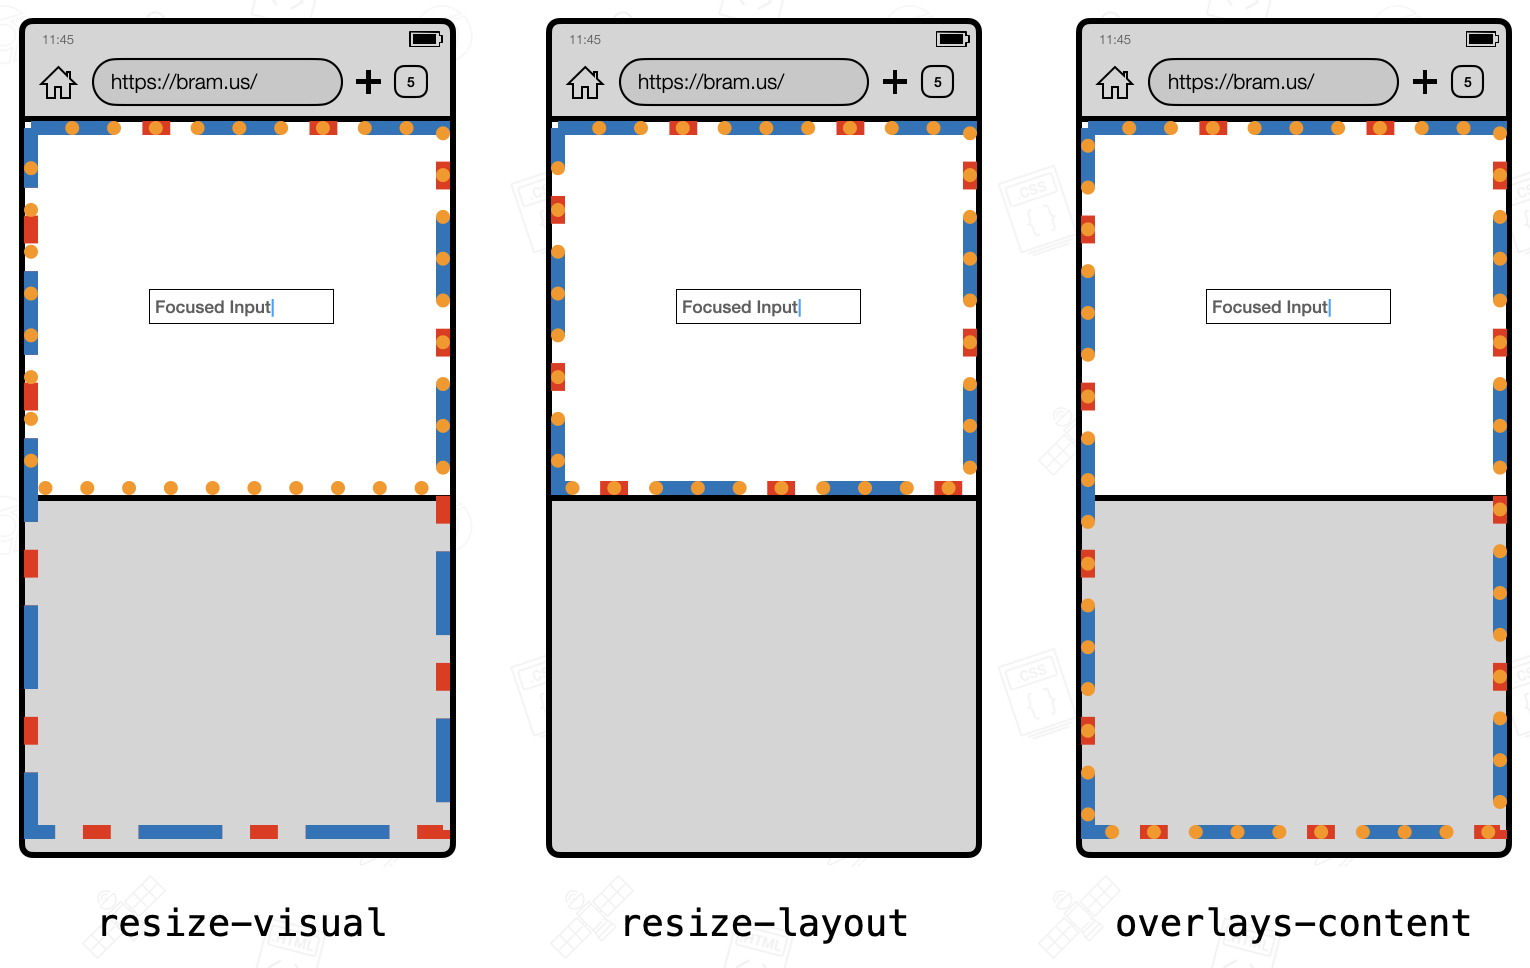
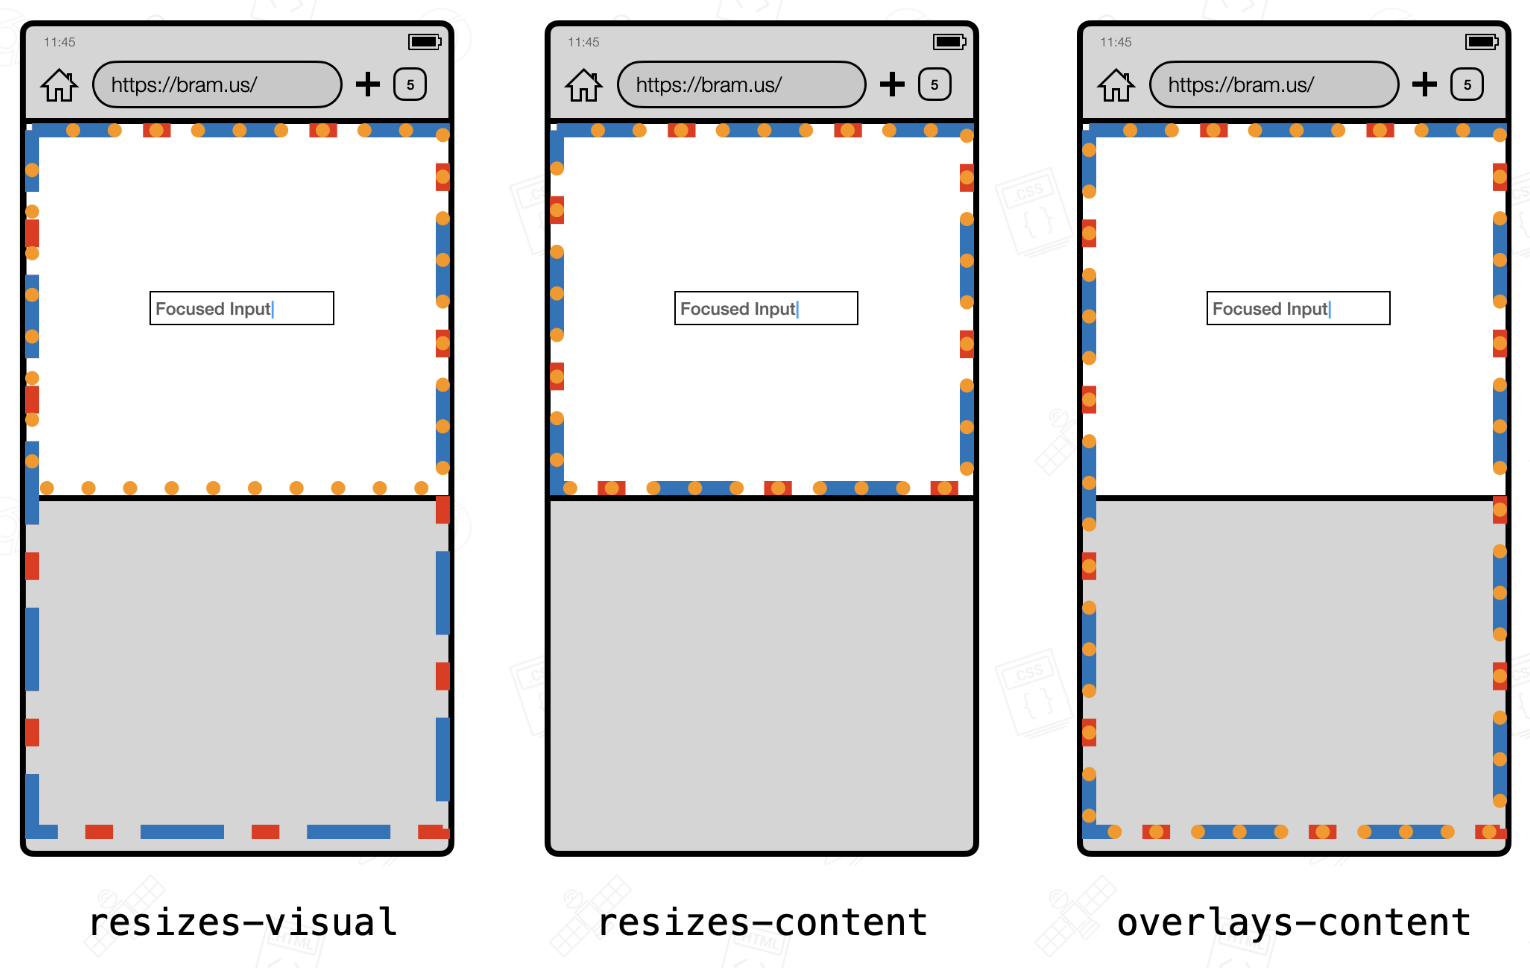
Update naming of interactive-widgets meta property
This commit updates the names of some properties in the `interactive-widgets` property of the viewport meta tag to reflect updated spec text[1]:

"interactive-widgets" --> "interactive-widget"
"resize-layout" --> "resizes-content"
"resize-visual" --> "resizes-visual"

[1] https://github.com/w3c/csswg-drafts/pull/7826

diff --git a/demos/src/index.html b/demos/src/index.html
@@ -39,15 +39,15 @@
     <main>
         <h1>Viewport Resize Behavior Demos</h1>
 
-        <p>Set of demo pages that use the <code>interactive-widgets</code> viewport meta tag extension with its different values.</p>
+        <p>Set of demo pages that use the <code>interactive-widget</code> viewport meta tag extension with its different values.</p>
 
         <h2>Demos</h2>
 
         <ol>
-            <li><a href="interactive-widgets/no-value/">no value set</a></li>
-            <li><a href="interactive-widgets/resize-visual/">interactive-widgets=resize-visual</a></li>
-            <li><a href="interactive-widgets/resize-layout/">interactive-widgets=resize-layout</a></li>
-            <li><a href="interactive-widgets/overlays-content/">interactive-widgets=overlays-content</a></li>
+            <li><a href="interactive-widget/no-value/">no value set</a></li>
+            <li><a href="interactive-widget/resizes-visual/">interactive-widget=resizes-visual</a></li>
+            <li><a href="interactive-widget/resizes-content/">interactive-widget=resizes-content</a></li>
+            <li><a href="interactive-widget/overlays-content/">interactive-widget=overlays-content</a></li>
         </ol>
 
 		<h2>Legend</h2>

diff --git a/demos/src/interactive-widget/overlays-content/index.html b/demos/src/interactive-widget/overlays-content/index.html
@@ -2,8 +2,8 @@
 <html lang="en">
 <head>
     <meta charset="UTF-8" />
-    <title>Viewport Resize Behavior Demos – interactive-widgets - overlays-content</title>
-    <meta name="viewport" content="width=device-width, initial-scale=1,interactive-widgets=overlays-content" />
+    <title>Viewport Resize Behavior Demos – interactive-widget - overlays-content</title>
+    <meta name="viewport" content="width=device-width, initial-scale=1,interactive-widget=overlays-content" />
     <link rel="stylesheet" href="../../base.css" />
 
     <script type="module">

diff --git a/demos/src/interactive-widget/resizes-visual/index.html b/demos/src/interactive-widget/resizes-visual/index.html
@@ -2,8 +2,8 @@
 <html lang="en">
 <head>
     <meta charset="UTF-8" />
-    <title>Viewport Resize Behavior Demos – interactive-widgets - resize-layout</title>
-    <meta name="viewport" content="width=device-width, initial-scale=1,interactive-widgets=resize-layout" />
+    <title>Viewport Resize Behavior Demos – interactive-widget - resizes-visual</title>
+    <meta name="viewport" content="width=device-width, initial-scale=1,interactive-widget=resizes-visual" />
     <link rel="stylesheet" href="../../base.css" />
 
     <script type="module">

diff --git a/demos/src/interactive-widget/resizes-content/index.html b/demos/src/interactive-widget/resizes-content/index.html
@@ -2,8 +2,8 @@
 <html lang="en">
 <head>
     <meta charset="UTF-8" />
-    <title>Viewport Resize Behavior Demos – interactive-widgets - No Value</title>
-    <meta name="viewport" content="width=device-width, initial-scale=1" />
+    <title>Viewport Resize Behavior Demos – interactive-widget - resizes-content</title>
+    <meta name="viewport" content="width=device-width, initial-scale=1,interactive-widget=resizes-content" />
     <link rel="stylesheet" href="../../base.css" />
 
     <script type="module">

diff --git a/demos/src/interactive-widget/no-value/index.html b/demos/src/interactive-widget/no-value/index.html
@@ -2,8 +2,8 @@
 <html lang="en">
 <head>
     <meta charset="UTF-8" />
-    <title>Viewport Resize Behavior Demos – interactive-widgets - resize-visual</title>
-    <meta name="viewport" content="width=device-width, initial-scale=1,interactive-widgets=resize-visual" />
+    <title>Viewport Resize Behavior Demos – interactive-widget - No Value</title>
+    <meta name="viewport" content="width=device-width, initial-scale=1" />
     <link rel="stylesheet" href="../../base.css" />
 
     <script type="module">

diff --git a/explainer.md b/explainer.md
@@ -19,7 +19,7 @@ Authors: [Bramus](https://github.com/bramus/), [David Bokan](https://github.com/
 - [Alternatives Considered](#alternatives-considered)
   - [Do nothing](#do-nothing)
   - [The VirtualKeyboard API with `overlaysMode`](#the-virtualkeyboard-api-with-overlaysmode)
-  - [Force all browsers to use a `resize-visual` behavior with no way of switching](#force-all-browsers-to-use-a-resize-visual-behavior-with-no-way-of-switching)
+  - [Force all browsers to use a `resizes-visual` behavior with no way of switching](#force-all-browsers-to-use-a-resizes-visual-behavior-with-no-way-of-switching)
   - [A new meta tag](#a-new-meta-tag)
 - [Prior Art and Interesting Links](#prior-art-and-interesting-links)
   - [Prior Art](#prior-art)
@@ -28,7 +28,7 @@ Authors: [Bramus](https://github.com/bramus/), [David Bokan](https://github.com/
   - [Privacy](#privacy)
   - [Security](#security)
 - [Follow-up work](#follow-up-work)
-  - [Allow authors to easily position elements above the Virtual Keyboard when having opted in to the `resize-visual` behavior](#allow-authors-to-easily-position-elements-above-the-virtual-keyboard-when-having-opted-in-to-the-resize-visual-behavior)
+  - [Allow authors to easily position elements above the Virtual Keyboard when having opted in to the `resizes-visual` behavior](#allow-authors-to-easily-position-elements-above-the-virtual-keyboard-when-having-opted-in-to-the-resizes-visual-behavior)
 
 ## Status of this document
 
@@ -57,7 +57,7 @@ Depending on which behavior a User Agent + Platform combination a visitor uses, 
 This document proposes an extension the viewport meta tag so that authors get to opt in to any of those behaviors in a declarative manner.
 
 ```html
-<meta name="viewport" content="width=device-width, initial-scale=1.0, interactive-widgets=overlays-content">
+<meta name="viewport" content="width=device-width, initial-scale=1.0, interactive-widget=overlays-content">
 ```
 
 This way, authors get to control which behavior a User Agent uses.
@@ -244,16 +244,16 @@ For some layouts, authors do not want the layout to resize when the Virtual Keyb
 
 To switch Virtual Keyboard behaviors, authors can use an extra key-value pair the viewport meta tag. That way, they get to control the resize behavior of the various Viewports in case the Virtual Keyboard gets shown.
 
-The key is `interactive-widgets`, and it accepts one of these three values:
+The key is `interactive-widget`, and it accepts one of these three values:
 
-1. `resize-visual` = Resize only the Visual Viewport but not the Layout Viewport
-2. `resize-layout` = Resize both the Visual Viewport and Layout Viewport
+1. `resizes-visual` = Resize only the Visual Viewport but not the Layout Viewport
+2. `resizes-content` = Resize both the Visual Viewport and Layout Viewport
 3. `overlays-content` = Do not resize any viewport
 
 Example:
 
 ```html
-<meta name="viewport" content="width=device-width, initial-scale=1.0, interactive-widgets=overlays-content">
+<meta name="viewport" content="width=device-width, initial-scale=1.0, interactive-widget=overlays-content">
 ```
 
 Visualized, the settings have this effect on the various viewports:
@@ -274,7 +274,7 @@ _ℹ Note: Through this declarative way of controlling the resize behavior, w
 - ✅ Authors can opt-in to any of the behaviors, not being bound to what the platform + browser combination their visitors are on uses as a default.
 - ✅ When an author opts in to a certain behavior, they know that elements sized to Viewport-Relative Units –amongst others– will work in a similar way on each platform, in case the Virtual Keyboard is shown.
 - ✅ When an author opts in to a certain behavior, they know that the position of certain elements will behave in a similar way on each platform, in case the Virtual Keyboard is shown.
-- ❌ If authors have opted in to resize-visual but want to retain a fixed positioning behavior where they want to an element above the Virtual Keyboard, they need to resort to JS to achieve this
+- ❌ If authors have opted in to resizes-visual but want to retain a fixed positioning behavior where they want to an element above the Virtual Keyboard, they need to resort to JS to achieve this
   - This workaround is already needed today for browsers that do not resize the ICB
 
 ## Alternatives Considered
@@ -297,9 +297,9 @@ If we were to pursue this, we would force authors to:
 - Manually adjust the size of their layouts
 - Implement workarounds when using the Visual Viewport API. 
 
-### Force all browsers to use a `resize-visual` behavior with no way of switching
+### Force all browsers to use a `resizes-visual` behavior with no way of switching
 
-Right now Chrome on Android uses the `resize-layout` behavior. Changing it to resize-visual with no way back could potentially break a lot of sites that did not expect this change.
+Right now Chrome on Android uses the `resizes-content` behavior. Changing it to resizes-visual with no way back could potentially break a lot of sites that did not expect this change.
 
 As outlined in the examples, it sometimes is necessary to have a layout that adapts itself to the visible space, whereas sometimes it is not. By forcing one behavior without offering a switch, authors are limited in what they can do.
 
@@ -308,7 +308,7 @@ As outlined in the examples, it sometimes is necessary to have a layout that ada
 Instead of opting for a standalone meta tag, we chose to extend the existing viewport one, as this all is linked to the (resize) behavior of the viewport.
 
 ```html
-<meta name="interactive-widgets" content="overlays-content">
+<meta name="interactive-widget" content="overlays-content">
 ```
 
 ## Prior Art and Interesting Links
@@ -340,8 +340,8 @@ There is no known security impact of this feature.
 
 ## Follow-up work
 
-### Allow authors to easily position elements above the Virtual Keyboard when having opted in to the `resize-visual` behavior
+### Allow authors to easily position elements above the Virtual Keyboard when having opted in to the `resizes-visual` behavior
 
-Should authors want to keep the  “old” positioning behavior while opting into resize-visual, they can resort to the Visual Viewport API which offers them JS access to the Visual Viewport’s dimensions and position. Combined with the dimensions of the non-resized Layout Viewport and a few resize events, elements can be guaranteed to appear above the OSK, just like they did before.
+Should authors want to keep the  “old” positioning behavior while opting into resizes-visual, they can resort to the Visual Viewport API which offers them JS access to the Visual Viewport’s dimensions and position. Combined with the dimensions of the non-resized Layout Viewport and a few resize events, elements can be guaranteed to appear above the OSK, just like they did before.
 
 They could use the Visual Viewport API for this, but that [is a bit cumbersome and relies on JavaScript](https://interop-2022-viewport.netlify.app/combined/icb-fixed-visual/). To tackle this at the CSS level, there is [an issue at the CSS Working Group which would give authors a pure CSS way of achieving this](https://github.com/w3c/csswg-drafts/issues/7475).

diff --git a/demos/README.md b/demos/README.md
@@ -1,6 +1,6 @@
 # Viewport Resize Behavior Demos
 
-Set of demo pages that use the `interactive-widgets` viewport meta tag extension with its different values.
+Set of demo pages that use the `interactive-widget` viewport meta tag extension with its different values.
 
 View online: https://viewport-resize-behavior.netlify.app/
 
